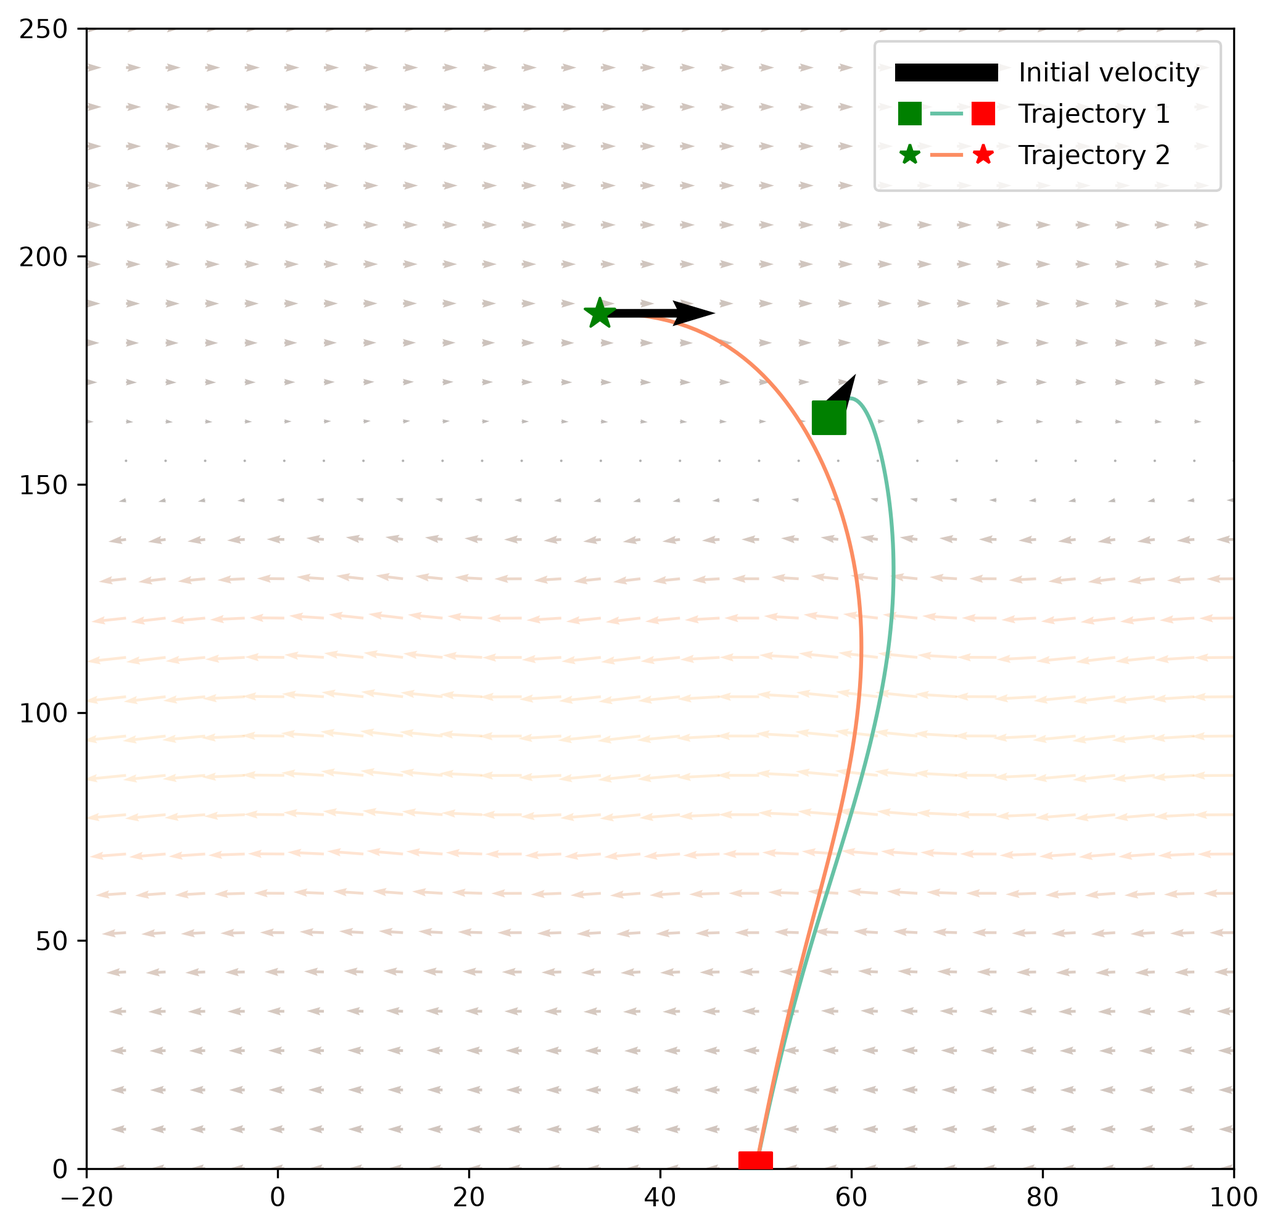
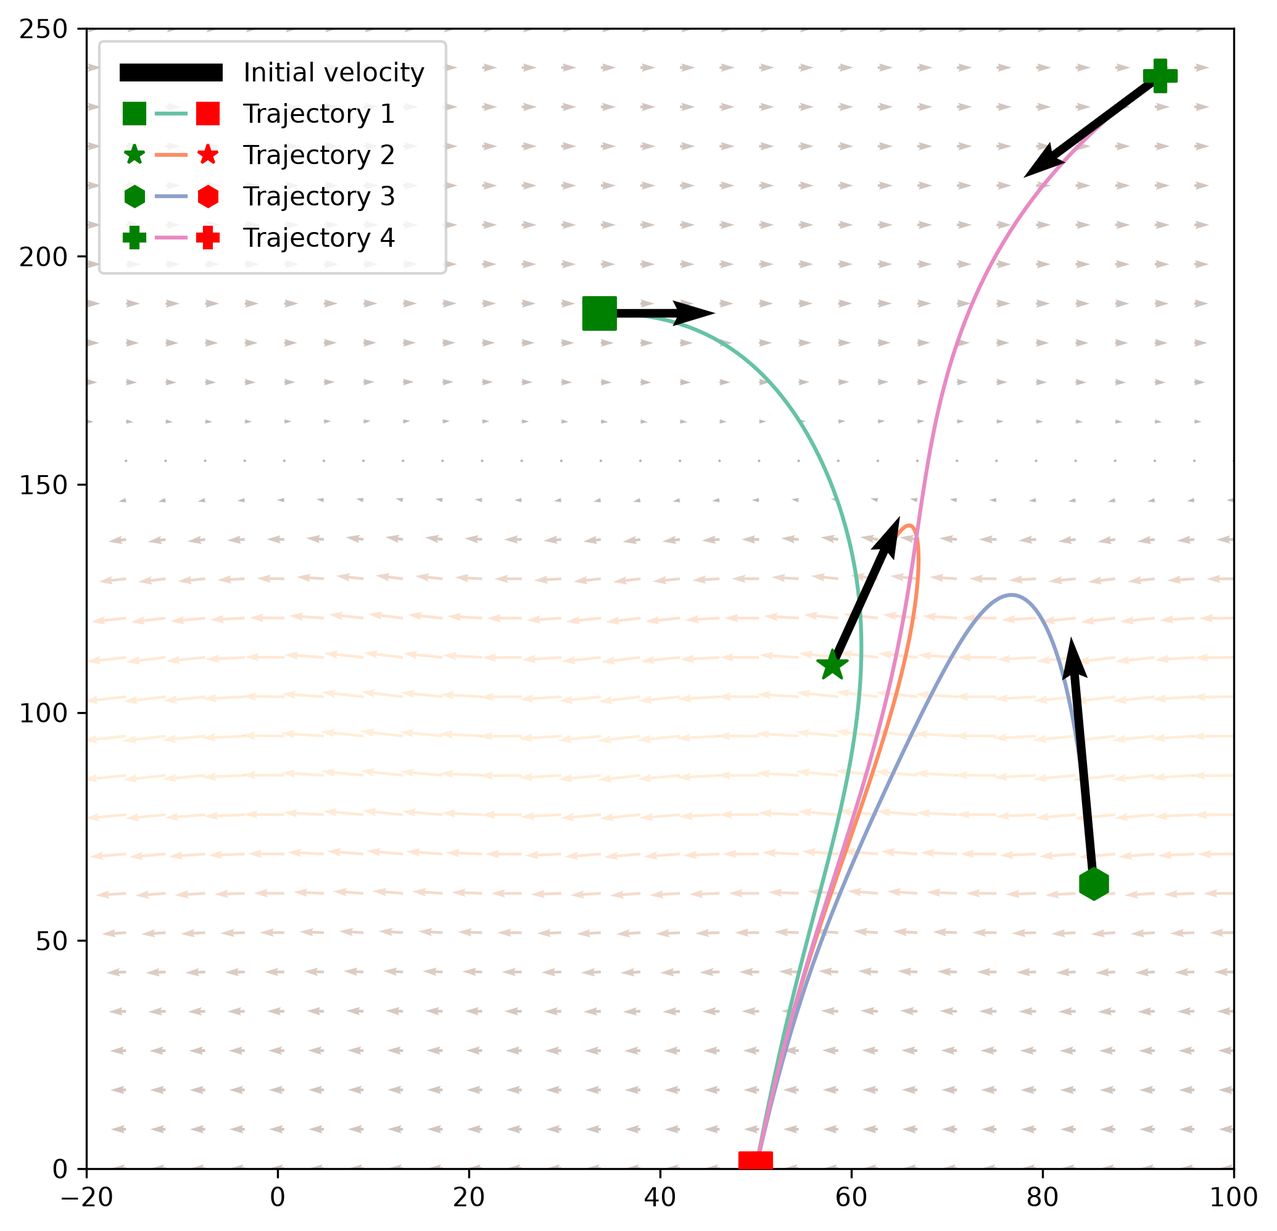
forced examples a bit more

diff --git a/paper/body/4-forced-systems.tex b/paper/body/4-forced-systems.tex
@@ -1,15 +1,13 @@
 \chapter{Forced systems}\label{sec:forced-systems}
 
-Lagrangian systems can be extended to \newterm{Lagrangian forced systems}, defined with a \newterm{Lagrangian external force} which is usually defined as a map $f^L : TQ \to T^* Q$~\cite[section 4.1.1]{satomartindealmagroDiscreteMechanicsForced2020} that is fibre-preserving. This system is now not determined only by the Lagrangian, but by the discrete Lagrangian and the external force.
-
-In this setting it is not Hamilton's principle that applies, but rather its forced analog, called the \newterm{Lagrange-D'Alembert principle}:
+Lagrangian systems can be extended to \newterm{Lagrangian forced systems}, defined with a \newterm{Lagrangian external force} which is usually defined as a map $f^L : TQ \to T^* Q$~\cite[section 4.1.1]{satomartindealmagroDiscreteMechanicsForced2020} that is fibre-preserving. In this setting it is not Hamilton's principle that applies, but rather its forced analog, called the \newterm{Lagrange-D'Alembert principle}:
 \begin{definition}[Lagrange-D'Alembert principle {\cite[Definition 4.1.1]{satomartindealmagroDiscreteMechanicsForced2020}}]
 	A path $q(t) : [0, T] \to Q \in C^2([0, T], Q)$ is the physical trajectory of the forced Largangian system defined by $L: TQ \to \RR$ and force $f^L : TQ \to T^*Q$ if and only if
 	\[
 		\odv{}{t} \pdv{L}{\dot{q}} - \pdv{L}{q} = f^L (q(t), \dot{q}(t))
 	\]
 \end{definition}
-Unlike Hamilton's principle, this is \emph{not} in general the extremization of any action. 
+Unlike Hamilton's principle, this is \emph{not} in general the extremization of any action.
 
 As in the unforced case, it is possible to carry out a discretization of the state space, the Lagrangian and the forces. The first two are the same: from $TQ$ to $Q \times Q$ and from $L : TQ \to \RR$ to $L_d : Q \times Q \to \RR$.
 
@@ -73,7 +71,7 @@ In the remainder of this section we aim to provide \emph{structural} sufficient 
 
 To get an expression for $J^f$, we start by computing the derivative of~\eqref{eq:euler-lagrange-discrete-forced} which we will name $H^f$ as it is the forced analog of $H$ in~\cite{ferraroParallelIterativeMethod2025} (even though $H^f$ is not the Hessian of any function). The result is the following (similar to~\eqref{eq:hessian-matrix}):
 \begin{align*}
-	H^f_{ij} (\mathbf{q}) & = \mdif*{\hat{R}(\mathbf{q})}                                                                                                                                               \\ & = \mdif{q_j} \left(
+	H^f_{ij} (\mathbf{q}) & = \mdif*{\hat{R}(\mathbf{q})}                                                                                                                            \\ & = \mdif{q_j} \left(
 	\mdif{2} L_d (q_{k-1}, q_k) + f_d^+ (q_{k-1}, q_k) + \mdif{1} L_d (q_k, q_{k+1}) + f_d^- (q_k, q_{k+1}) = 0
 	\right)                                                                                                                                                                          \\
 	                      & = \delta_{i, j} \left( \mdif{22} \Ld(q_{i - 1}, q_i) + \mdif{2} f_d^+(q_{i-1}, q_i) + \mdif{11} \Ld(q_i, q_{i+1}) + \mdif{1} f_d^-(q_i, q_{i+1}) \right) \\
@@ -308,206 +306,97 @@ This perturbation bound is checkable in terms of derivatives of the discrete for
 
 \section{Examples}\label{sec:forced-examples}
 
-We illustrate the forced algorithm and the convergence criteria on four systems.
-Examples~\ref{ex:damped-oscillator} and~\ref{ex:lorentz} apply the perturbation theorem
-to, respectively, a dissipative force and a gyroscopic force.
-\Cref{ex:parachutist} shows a practical application of the algorithm to find trajectories for a parachutist in turbulent wind conditions.
+We illustrate the forced algorithm and the convergence criteria on two systems: example~\ref{ex:damped-oscillator} applies the perturbation theorem to a simple dissipative force, and example~\ref{ex:parachutist} shows a practical application of the algorithm to find trajectories for a parachutist in turbulent wind conditions.
+
 \tocless\subsection{Damped harmonic oscillator}\label{ex:damped-oscillator}
 
-The one-dimensional harmonic oscillator with linear viscous damping,
+Consider a one-dimensional harmonic oscillator with linear viscous damping,
 \[
 	\ddot{q} + \gamma\dot{q} + \omega^2 q = 0, \qquad \gamma > 0,
 \]
-fits the Lagrange-D'Alembert framework with
+which has the following Lagrangian:
 \[
 	L(q,\dot{q}) = \tfrac{1}{2}\dot{q}^2 - \tfrac{1}{2}\omega^2 q^2,
 	\qquad
 	f^L(q,\dot{q}) = -\gamma\dot{q}.
 \]
-We discretize with the trapezoidal Lagrangian and the midpoint force quadrature:
+We discretize the Lagrangian and the force with the trapezoidal rule, evaluating both at the two endpoints $q_k, q_{k+1}$ (since the damping is velocity-only, the force quadrature here coincides with the midpoint rule):
 \begin{align*}
-	L_d(q_k, q_{k+1})   & = \frac{(q_{k+1}-q_k)^2}{2h} - \frac{\omega^2 h}{4}(q_k^2 + q_{k+1}^2), \\
-	f_d^+(q_k, q_{k+1}) & = -\frac{\gamma}{2h}(q_{k+1}-q_k), \qquad
-	f_d^-(q_k, q_{k+1}) = -\frac{\gamma}{2h}(q_{k+1}-q_k).
+	L_d(q_k, q_{k+1})   & = \frac{{(q_{k+1}-q_k)}^2}{2h} - \frac{\omega^2 h}{4}(q_k^2 + q_{k+1}^2) \\
+	f_d^+(q_k, q_{k+1}) & = -\frac{\gamma}{2}(q_{k+1}-q_k)                                         \\
+	f_d^-(q_k, q_{k+1}) & = -\frac{\gamma}{2}(q_{k+1}-q_k).
 \end{align*}
-The blocks of the forced Hessian (all scalars, since $n = 1$) evaluate to
+The ``blocks'' of the forced Hessian are just scalars, evaluating to
 \begin{alignat*}{2}
-	\hat{\mathcal{A}}_k   & = \frac{1}{h} - \frac{\omega^2 h}{2} + \frac{\gamma}{2h}, & \qquad
-	\hat{\mathcal{B}}_k   & = \frac{1}{h} - \frac{\omega^2 h}{2} - \frac{\gamma}{2h},          \\
-	\hat{\mathcal{C}}^+_k & = -\frac{1}{h} - \frac{\gamma}{2h},                       & \qquad
-	\hat{\mathcal{C}}^-_k & = -\frac{1}{h} + \frac{\gamma}{2h}.
+	\hat{\mathcal{A}}_k   & = \frac{1}{h} - \frac{\omega^2 h}{2} + \frac{\gamma}{2} & \qquad
+	\hat{\mathcal{C}}^+_k & = -\frac{1}{h} - \frac{\gamma}{2}                                \\
+	\hat{\mathcal{B}}_k   & = \frac{1}{h} - \frac{\omega^2 h}{2} - \frac{\gamma}{2} & \qquad
+	\hat{\mathcal{C}}^-_k & = -\frac{1}{h} + \frac{\gamma}{2}.
 \end{alignat*}
-Comparing with the unforced blocks $\hat{\mathcal{A}}_k^0 = \hat{\mathcal{B}}_k^0 = \frac{1}{h} - \frac{\omega^2 h}{2}$
-and $\hat{\mathcal{C}}_k^{0,\pm} = -\frac{1}{h}$, the force perturbation matrix $\Delta F$ has
+Comparing with the unforced blocks $\mathcal{A}_k = \mathcal{B}_k = \frac{1}{h} - \frac{\omega^2 h}{2}$ and $\mathcal{C}_k^\pm = -\frac{1}{h}$, the force perturbation matrix $\Delta F$ has
 \[
 	\Delta\hat{\mathcal{D}}_k = \mdif{2} f_d^+(q_{k-1}, q_k) + \mdif{1} f_d^-(q_k, q_{k+1})
-	= -\frac{\gamma}{2h} + \frac{\gamma}{2h} = 0.
+	= -\frac{\gamma}{2} + \frac{\gamma}{2} = 0.
 \]
-The midpoint quadrature leaves the diagonal blocks of $H^f$ unchanged relative to the
-unforced system: the damping force enters $H^f$ only through the off-diagonal blocks,
+That is, the midpoint quadrature leaves the diagonal blocks of $H^f$ unchanged relative to the unforced system and the damping force enters $H^f$ only through the off-diagonal blocks,
 \[
-	\Delta\hat{\mathcal{C}}^+_k = -\frac{\gamma}{2h}, \qquad \Delta\hat{\mathcal{C}}^-_k = \frac{\gamma}{2h},
+	\Delta\hat{\mathcal{C}}^+_k = -\frac{\gamma}{2}, \qquad \Delta\hat{\mathcal{C}}^-_k = \frac{\gamma}{2}.
 \]
-so $\|\Delta F\|_2 = O(\gamma/h)$.
-In particular, $\Delta F$ is purely off-diagonal with antisymmetric blocks ($\Delta\hat{\mathcal{C}}^-_k = -\Delta\hat{\mathcal{C}}^+_k$),
-so the skew part of $H^f$ grows with $\gamma$ while the symmetric part remains that of the
-unforced oscillator.
-
-Assuming the unforced oscillator converges at $\mathbf{q}^*$ for the chosen step size $h$ (a
-condition on $h$ and $\omega$ alone), Theorem~\ref{thm:forced-perturbation} and
-Lemma~\ref{lem:forced-perturbation-explicit} guarantee that the forced method also converges
-whenever
+Thus $\Delta F$ is purely off-diagonal with antisymmetric blocks ($\Delta\hat{\mathcal{C}}^-_k = -\Delta\hat{\mathcal{C}}^+_k$), so the skew part of $H^f$ grows with $\gamma$ while the symmetric part remains that of the unforced oscillator. Here, $\|\Delta F\|_2$ can be computed exactly. $\Delta F = \tfrac{\gamma}{2} S$, where $S$ is the $(N-1)\times(N-1)$ skew-symmetric tridiagonal Toeplitz matrix with $-1$ on the super-diagonal and $+1$ on the sub-diagonal, which has known eigenvalues $\lambda_j = 2i\cos\tfrac{j\pi}{N}$ for $j = 1, \dots, N-1$. Therefore, $\|S\|_2 = 2\cos\tfrac{\pi}{N}$ and
 \[
-	\frac{\gamma}{2h} < \varepsilon = \frac{1 - \|J^0\|}{3\|D_0^{-1}\|},
+	\|\Delta F\|_2 = \gamma\cos\frac{\pi}{N} < \gamma.
 \]
-where $J^0$ and $D_0^{-1}$ are the Jacobi matrix and inverse diagonal of the unforced
-system at $\mathbf{q}^*$. This gives a concrete bound on the admissible damping coefficient
-in terms of the step size and the unforced convergence margin.
 
-\todo{Figure: trajectories of the forced integrator for $\omega = 1$, $h = 0.1$, and
-	several values of $\gamma$, compared to the exact solution $q(t) = e^{-\gamma t/2}
-		(\cos\nu t + \frac{\gamma}{2\nu}\sin\nu t)$ with $\nu = \sqrt{\omega^2 - \gamma^2/4}$.
-	Inset: Newton residual norm vs.\ iteration count for each $\gamma$ to show the
-	convergence rate.}
+Assuming the unforced oscillator converges at $\mathbf{q}^*$ for the chosen step size $h$ (a condition on $h$ and $\omega$ alone), Theorem~\ref{thm:forced-perturbation} and Lemma~\ref{lem:forced-perturbation-explicit} guarantee that the forced method also converges whenever
+\[
+	\gamma\cos\frac{\pi}{N} < \varepsilon = \frac{1 - \|J^0\|}{3\|D_0^{-1}\|},
+	\qquad\text{equivalently}\qquad
+	\gamma < \frac{\varepsilon}{\cos(\pi/N)},
+\]
+where $J^0$ and $D_0^{-1}$ are the Jacobi matrix and inverse diagonal of the unforced system at $\mathbf{q}^*$. This gives a concrete bound on the admissible damping coefficient in terms of the step size and the unforced convergence margin; since $\cos(\pi/N) < 1$, the simpler condition $\gamma < \varepsilon$ is already sufficient. Note that using instead the per-block magnitude $\tfrac{\gamma}{2}$ as a proxy for $\|\Delta F\|_2$ would have \emph{overestimated} the admissible damping by roughly a factor of two, as $\|\Delta F\|_2 \to \gamma$ for large $N$.
+
 
 \todo{Figure or table: plot the bound $\varepsilon(h, \omega)$ and the actual convergence
 	threshold in $\gamma$ found by bisection, to visualise how tight the perturbation bound is.}
 
-\tocless\subsection{Charged particle in a uniform magnetic field}\label{ex:lorentz}
-
-A particle of unit mass and charge moves in the plane under a uniform magnetic field
-of strength $B > 0$ pointing out of the plane. The equations of motion are
-\[
-	\ddot{q} = B J \dot{q}, \qquad J = \begin{pmatrix} 0 & 1 \\ -1 & 0 \end{pmatrix},
-\]
-producing circular orbits (cyclotron motion) of radius $|\dot{q}|/B$ and period $2\pi/B$.
-This is a prototypically \newterm{gyroscopic} system: the Lorentz force $f^L = BJ\dot{q}$
-is always perpendicular to the velocity, does no work, and cannot be absorbed into any
-potential. We take
-\[
-	L(q,\dot{q}) = \tfrac{1}{2}|\dot{q}|^2, \qquad f^L(q,\dot{q}) = B J \dot{q}.
-\]
-With the free-particle discrete Lagrangian and midpoint discrete forces,
-\[
-	L_d(q_k, q_{k+1}) = \frac{|q_{k+1}-q_k|^2}{2h},
-	\qquad
-	f_d^\pm(q_k, q_{k+1}) = \frac{B}{2} J(q_{k+1}-q_k),
-\]
-the forced Hessian blocks are now $2\times 2$ matrices:
-\begin{alignat*}{2}
-	\hat{\mathcal{A}}_k   & = \tfrac{1}{h}I - \tfrac{B}{2}J,  & \qquad
-	\hat{\mathcal{B}}_k   & = \tfrac{1}{h}I + \tfrac{B}{2}J,           \\
-	\hat{\mathcal{C}}^+_k & = -\tfrac{1}{h}I + \tfrac{B}{2}J, & \qquad
-	\hat{\mathcal{C}}^-_k & = -\tfrac{1}{h}I - \tfrac{B}{2}J.
-\end{alignat*}
-Since $J$ is antisymmetric, the gyroscopic force does not affect the symmetric
-parts of the diagonal blocks:
-\[
-	\Sym(\hat{\mathcal{A}}_k) = \Sym(\hat{\mathcal{B}}_k) = \tfrac{1}{h}I.
-\]
-However, it breaks the symmetry $\hat{\mathcal{C}}^+ = (\hat{\mathcal{C}}^-)^T$ that holds
-in the unforced case. Since $J^T = -J$,
-\[
-	(\hat{\mathcal{C}}^+_k)^T = -\tfrac{1}{h}I - \tfrac{B}{2}J = \hat{\mathcal{C}}^-_k,
-\]
-so the midpoint discretization satisfies the \newterm{symmetric force condition}
-$(\mdif{2}f_d^-)^T = \mdif{1}f_d^+$, which collapses the two inequalities
-of~\eqref{eq:local-edge-dominance} to a single one.
-
-The force-perturbation blocks are $\Delta\hat{\mathcal{D}}_k = 0$ and
-$\Delta\hat{\mathcal{C}}^\pm_k = \pm\tfrac{B}{2}J$, giving $\|\Delta F\|_2 = O(B)$.
-By the same argument as before, Theorem~\ref{thm:forced-perturbation} guarantees
-convergence for all $B$ below the threshold
-\[
-	B < \frac{2(1 - \|J^0\|)}{3\|D_0^{-1}\|}.
-\]
-
-\todo{Figure: exact circular orbit vs.\ numerically integrated path for several values
-	of $B$, showing that the integrator preserves the cyclotron radius. Convergence of the
-	Newton residual vs.\ iteration count for $B$ below and above the perturbation threshold.}
-
-% \tocless\subsection{Effect of force discretization on convergence}\label{ex:discretization}
-
-% The choice of discrete forces $f_d^\pm$ approximating the same continuous force $f^L$
-% is not unique, and different choices lead to different structures of $H^f$ — and
-% therefore potentially different convergence margins. We illustrate this on the charged
-% particle of Example~\ref{ex:lorentz}.
-
-% \paragraph{Midpoint rule.} As computed above, $f_d^\pm = \frac{B}{2}J(q_{k+1}-q_k)$.
-% This distributes the impulse equally between the two endpoints. The off-diagonal blocks are
-% \[
-% 	\hat{\mathcal{C}}^+_k = -\tfrac{1}{h}I + \tfrac{B}{2}J, \qquad
-% 	\hat{\mathcal{C}}^-_k = -\tfrac{1}{h}I - \tfrac{B}{2}J,
-% \]
-% with spectral norm $\|\hat{\mathcal{C}}^+_k\|_2 = \sqrt{h^{-2} + B^2/4}$.
-% As noted above, $(\hat{\mathcal{C}}^+_k)^T = \hat{\mathcal{C}}^-_k$, so the symmetric force
-% condition $(\mdif{2}f_d^-)^T = \mdif{1}f_d^+$ holds.
-
-% \paragraph{Left-endpoint rule.} Assigning the full impulse to $f_d^-$,
-% \[
-% 	f_d^+(q_k, q_{k+1}) = 0, \qquad f_d^-(q_k, q_{k+1}) = B J(q_{k+1}-q_k),
-% \]
-% gives
-% \[
-% 	\hat{\mathcal{C}}^+_k = -\tfrac{1}{h}I + BJ, \qquad
-% 	\hat{\mathcal{C}}^-_k = -\tfrac{1}{h}I,
-% \]
-% with $\|\hat{\mathcal{C}}^+_k\|_2 = \sqrt{h^{-2} + B^2}$.
-% Now $(\hat{\mathcal{C}}^+_k)^T = -\tfrac{1}{h}I \neq \hat{\mathcal{C}}^-_k$, so the symmetric
-% force condition fails. The asymmetry is
-% \[
-% 	\hat{\mathcal{C}}^+_k - (\hat{\mathcal{C}}^-_k)^T = BJ,
-% \]
-% a purely skew-symmetric matrix that grows with $B$: the left-endpoint rule concentrates
-% the full asymmetry of $H^f$ in the upper off-diagonal blocks.
-
-% \paragraph{Comparison.} Both discretizations give $\|\Delta F\|_2 = O(B)$ and therefore
-% the same asymptotic perturbation bound. However, the midpoint rule has a strictly smaller
-% spectral norm $\|\hat{\mathcal{C}}^+_k\|_2$ for any $B > 0$ (by a factor of up to $2$ in
-% the norm), and it preserves the structural symmetry that makes the block structure of $J^f$
-% more regular.
-% This suggests that the midpoint quadrature is preferable whenever the gyroscopic force is
-% not small: it spreads the non-conservative coupling evenly, reducing the worst-case
-% amplification of errors at each node.
-
-% \todo{Figure: for a fixed field strength $B$ and step $h$, show the spectral radius
-% 	$\rho(J^f)$ and the Newton convergence rate for both discretizations, as $B$ varies from
-% 	$0$ to $B_{\max}$. This would concretely show the wider convergence window of the midpoint
-% 	rule.}
-
 \tocless\subsection{Parachutist in turbulent wind}\label{ex:parachutist}
-\todo{I don't know if ``turbulent'' is technically correct, since I think it technically means non-laminar flow?}
 
-A parachutist wants to jump from a helicopter at some position $(x_0, y_0)$ and reach a target point in the ground $(x^T, 0)$ at some time $T$ by letting themselves be carried by the wind, which is given as some vector field $W(x, y) = (w_x, w_y)$.
+A parachutist wants to jump from a helicopter at some position $(x_0, y_0)$ and reach a target point in the ground $(x_T, 0)$ at some time $T$ by letting themselves be carried by the wind, which is given as some vector field $W(x, y) = (w_x, w_y)$.
 
 This problem can be modelled with the Lagrangian
 \[
-    L(x, y, \dot{x}, \dot{y})=\frac{m}{2}(\dot{x}^2+\dot{y}^2)-m g y
+	L(x, y, \dot{x}, \dot{y})=\frac{m}{2}(\dot{x}^2+\dot{y}^2)-m g y
 \]
-where $g$ is the gravitational acceleration. Furthermore, the parachutist feels some drag, which is modelled as an external force:
+where $g$ is the gravitational acceleration and $m$ is the diver's mass. Furthermore, the parachutist feels some drag, which is modelled as an external force:
 \begin{align*}
-	(F_x, F_y)=(-k(\dot{x}-w_x(x, y)), -k(\dot{y}-w_y(x, y))), 
+	(F_x, F_y)=(-k(\dot{x}-w_x(x, y)), -k(\dot{y}-w_y(x, y))),
 \end{align*}
 where $k$ is the parachute drag coefficient.
 
-The problem can be discretized with the midpoint rule, for instance. The only additional data needed are the length of the path $N$, which then gives us the timestep $h = \frac{T}{N}$.
+The problem can be discretized with the midpoint rule, for instance. The only additional data needed are the length of the path $N$, which then gives us the timestep $h = \frac{T}{N}$. Finally, solving it allows us to recover what the initial must be to reached the desired endpoint by just being dragged by the wind.
 
-Finally, we can recover what the initial 
+\begin{figure}[ht]
+	\centering
+	\includegraphics[width=\textwidth]{parachutist-main.png}
+	\caption{Trajectory and initial velocity that a parachutist need to reach a desired endpoint in a wind field with two vortexes. Green path indicates trajcetory, fainter green paths indicate intermediate iterations solver iterations.}\label{fig:parachutist-main}
+\end{figure}
 
-    \textcolor{blue}{David
-    Parachutist example
-    Problem: Calculate the jump velocity and direction to reach a desired target point at a given time $T$.
-    The problem is given by: 
-    $$L(x, y, \dot{x}, \dot{y})=\frac{m}{2}(\dot{x}^2+\dot{y}^2)-mgy$$
-and external force
-\begin{align*}
-(F_x, F_y)=(-k(\dot{x}-w_x(x, y)), -k(\dot{x}-w_y(x, y))), 
-\end{align*}
-where $(w_x, w_y)$    is the wind velocity in both components (we assume that it is time-independent). The parameter $k$ is the parachute drag. 
-coefficient 
-Now, given a point $(x_0, y_0)$ (where $y_0$ is the aircraft attitude) and $(x_T, 0)$ is the target point, we use the parallel method to find a trajectory. Here $T=nh$. 
-Finally, the initial velocity  is 
-\[
-(\frac{x_{1}-x_0}{h}, \frac{y_1-y_0}{h})
-\]
-    }
+The results of the implementation are shown in \cref{fig:parachutist-main,fig:parachutist-many}. \Cref{fig:parachutist-main} shows how the trajectory starts as a straight line to the endpoint, but it curves upwards to be made physical. It turns out that for this particular wind field that has two vortexes, the parachutist needs to jump with velocity mostly to the right, and a bit upwards.
+
+\Cref{fig:parachutist-many} shows many trajectories from different starting  positions, both for the vortex wind field (\cref{fig:parachutist-many-vortex}) as well as for a wind field that forms a shear (\cref{fig:parachutist-many-shear}). This serves to illustrate a couple non-trivial observations. For instance, trajectory 3 (hexagon) in \cref{fig:parachutist-many-vortex} needs a very high initial velocity, which indicates that it is most likely not realistic for the parachutist to jump from that point and reach the target; and trajectory 2 (star) in \cref{fig:parachutist-many-shear} shows that to reach the endpoint the parachutist has to first jump \emph{away} from the target to reach it in the desired time (i.e., jump up and to the right, while the target is down and to the left).
+
+
+\begin{figure}[ht]
+	\begin{subfigure}[ht]{0.45\textwidth}
+		\centering
+		\includegraphics[width=\textwidth]{parachutist-vortex-many.png}
+		\caption{Vortex wind field (same as \cref{fig:parachutist-main})}\label{fig:parachutist-many-vortex}
+	\end{subfigure}
+	\hfill
+	\begin{subfigure}[ht]{0.45\textwidth}
+		\centering
+		\includegraphics[width=\textwidth]{parachutist-shear-many.png}
+		\caption{Shear wind field}\label{fig:parachutist-many-shear}
+	\end{subfigure}
+	\caption{Trajectories and initial velocities needed to reach an endpoint, depending on starting position.}\label{fig:parachutist-many}
+\end{figure}

diff --git a/paper/body/5-lie-groups.tex b/paper/body/5-lie-groups.tex
@@ -320,7 +320,7 @@ Elements of the tangent and cotangent space are represented by their trivialized
 
 The only thing missing is a way to calculate the second derivative, but this can actually be calculated with no additional knowledge, given that we're representing $\fg$ and $\fg^*$ as vectors. Namely, we differentiate directly the residual as a function of the algebra, by taking directly the Jacobian of~\eqref{eq:lie-residual}. Since we represent $\fg$ and $\fg^*$ as $\RR^n$, this can be done using any autodifferentiation library (such as JAX).
 
-This is enough to implement the algorithm, although in practice we also ask for a way to construct a tangent ``velocity'' vector as \verb|tangent(q0, q1, h)| which we use to be able to define the Lagrangian as continous and discretize it automatically.
+This is enough to implement the algorithm, although in practice we also ask for a way to construct a tangent ``velocity'' vector as \verb|tangent(q0, q1, h)| which we use to be able to define just the continuous Lagrangian and discretize it automatically.
 
 The source code, including all the code for the following examples, is available in the repository \todo{Add link}.
 
@@ -364,7 +364,7 @@ The resulting trajectory of a prism-like satellite under interesting conditions 
          \includegraphics[width=\textwidth]{satellite-top.png}
          \caption{Top view.}\label{fig:satellite-top}
      \end{subfigure}
-    \caption{Satellite physical simulation. Satellite needs to reach the position and orientation above. Blue prism indicates evenly-spaced snapshots of the satellite's position and orientation. Green path indicates positional trajectory, fainter green paths indicate previous trajectories before converging. Circles indicate celestial bodies that affect the satellite, size indicating pulling strength (i.e., mass).}\label{fig:satellite}
+    \caption{Satellite physical simulation. Satellite needs to reach the position and orientation above. Blue prism indicates evenly-spaced snapshots of the satellite's position and orientation. Green path indicates positional trajectory, fainter green paths indicate intermediate solver iterations. Circles indicate celestial bodies that affect the satellite, size indicating pulling strength (i.e., mass).}\label{fig:satellite}
 \end{figure}
 
 We see in the front view (\cref{fig:satellite-front}) that even though the satellite only has to increase its height by a bit, the physical trajectory needs to take a detour and make a bigger arc movement. The simulation shows us that a direct approach does not seem to allow reaching the final desired orientation, as the pull from the two bodies would rotate the satellite. In fact, in the top view (\cref{fig:satellite-top}) we can see that the path taken in the end does a smooth approach from above, where the pull from both bodies seems to be balanced in such a way that the satellite can rendezvouz with the target orientation.

diff --git a/paper/utils.tex b/paper/utils.tex
@@ -30,7 +30,9 @@
 
 % Hide section in table of contents (https://stackoverflow.com/questions/2785260/hide-an-entry-from-toc-in-latex)
 \newcommand{\nocontentsline}[3]{}
-\newcommand{\tocless}[2]{\bgroup\let\addcontentsline=\nocontentsline#1{#2}\egroup}
+\makeatletter
+\newcommand{\tocless}[2]{\bgroup\let\addcontentsline=\nocontentsline#1{#2}\global\let\@currentlabel\@currentlabel\egroup}
+\makeatother
 
 % Numbered paragraphs (notion counter): numbered as §section.n, no TOC entry
 \newcounter{notion}[section]

diff --git a/code/main.py b/code/main.py
@@ -125,8 +125,10 @@ def plot_forced():
         ParachutistShear,
         drag=35.65,
         startpoints=[
-            Point(57.67, 164.58),
             Point(33.67, 187.50),
+            Point(58.00, 110.42),
+            Point(85.33, 62.50),
+            Point(92.33, 239.58),
         ],
     )
     save("parachutist-shear-many.png")
